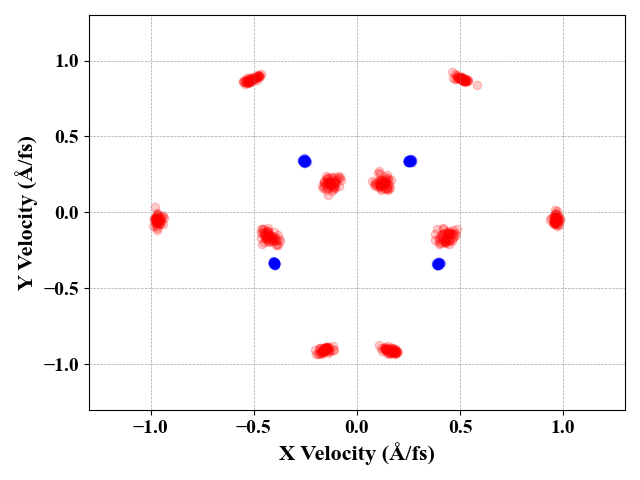
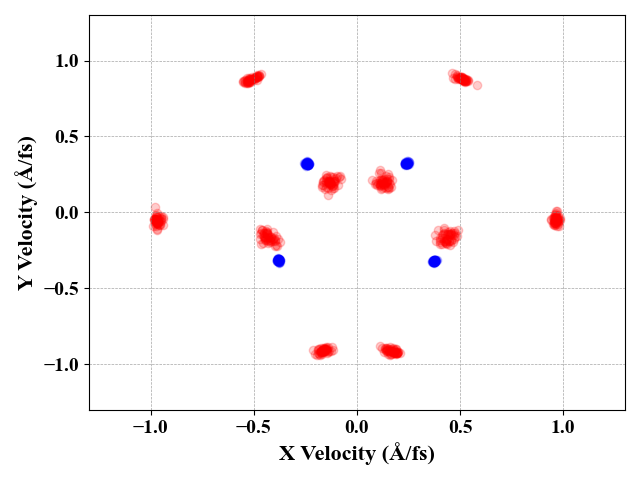
added newton plots for all of each molecule

diff --git a/scripts/newton_plot.py b/scripts/newton_plot.py
@@ -16,10 +16,10 @@ EPSILON = 1e-10
 mpl.rcParams['font.family'] = 'Times New Roman'
 mpl.rcParams['font.weight'] = 'bold'
 mpl.rcParams['axes.labelweight'] = 'bold'
-mpl.rcParams['axes.labelsize'] = 14  # increase label font size
-mpl.rcParams['xtick.labelsize'] = 12  # increase x tick font size
-mpl.rcParams['ytick.labelsize'] = 12  # increase y tick font size
-mpl.rcParams['legend.fontsize'] = 12  # Legend font size
+mpl.rcParams['axes.labelsize'] = 16  # increase label font size
+mpl.rcParams['xtick.labelsize'] = 14  # increase x tick font size
+mpl.rcParams['ytick.labelsize'] = 14  # increase y tick font size
+mpl.rcParams['legend.fontsize'] = 14  # Legend font size
 # either make axis label 14, then ticks and legend 12
 # or make axis label 16, then ticks and legend 14
 
@@ -696,45 +696,46 @@ class NewtonPlot:
 def main():
     print("-=GENERATING NEWTON PLOT=-")
     newton_plot = NewtonPlot()
-    data_mode = "q"
+    data_mode = "c"
     user_input_mode = False
     alpha = 0.2  #set alpha =0.2 for c4h10 and =0.03 for c2h2
-    lim_2d_left=-1.3
-    lim_2d_right=1.3
-    lim_2d_bottom=-1.3
-    lim_2d_top=1.3
-    lim_3d_x_lower=-1.3
-    lim_3d_x_upper=1.3
-    lim_3d_y_lower=-1.3
-    lim_3d_y_upper=1.3
-    lim_3d_z_lower=-1.3
-    lim_3d_z_upper=1.3
-    newton_plot.axis_subdivide = 4
+    lim_2d_left=-1.0
+    lim_2d_right=1.0
+    lim_2d_bottom=-1.0
+    lim_2d_top=1.0
+    lim_3d_x_lower=-1.0
+    lim_3d_x_upper=1.0
+    lim_3d_y_lower=-1.0
+    lim_3d_y_upper=1.0
+    lim_3d_z_lower=-1.0
+    lim_3d_z_upper=1.0
+    newton_plot.axis_subdivide = 5
 
     
 
     if (data_mode.lower().startswith('c')):
         #CLASSICAL INPUT FILE:
-        input_file = 'data\\isoxazole_classical\\atom_info.csv'
         input_file = 'data\\c2h2_classical\\atom_info.csv'
-        input_file = 'data\\c4h10_classical\\14\\atom_info.csv'
         input_file = 'data\\c4h10_classical\\28\\atom_info.csv'
+        input_file = 'data\\c4h10_classical\\14\\atom_info.csv'
+        input_file = 'data\\isoxazole_classical\\atom_info.csv'
+
         graph_name_tag="classical"
         
     if (data_mode.lower().startswith('q')):
         #QUANTUM INPUT FILE:
-        input_file = 'data\\isoxazole_quantum\\moleculeFormations_14.csv' 
         input_file = 'data\\c2h2_quantum\\moleculeFormations_14.csv'
         input_file = 'data\\c4h10_quantum\\28\\moleculeFormations_28.csv' 
         input_file = 'data\\c4h10_quantum\\14\\moleculeFormations_14.csv'
+        input_file = 'data\\isoxazole_quantum\\moleculeFormations_14.csv' 
         graph_name_tag="quantum"
 
     if (data_mode.lower().startswith('s')):
         #SEMI-CLASSICAL INPUT FILE:
-        input_file = 'data\\isoxazole_semi_classical\\atom_info.csv'
         input_file = 'data\\c2h2_semi_classical\\atom_info.csv'
-        input_file = 'data\\c4h10_semi_classical\\14\\atom_info.csv'
         input_file = 'data\\c4h10_semi_classical\\28\\atom_info.csv'
+        input_file = 'data\\c4h10_semi_classical\\14\\atom_info.csv'
+        input_file = 'data\\isoxazole_semi_classical\\atom_info.csv'
         graph_name_tag="semi-classical"
 
     
